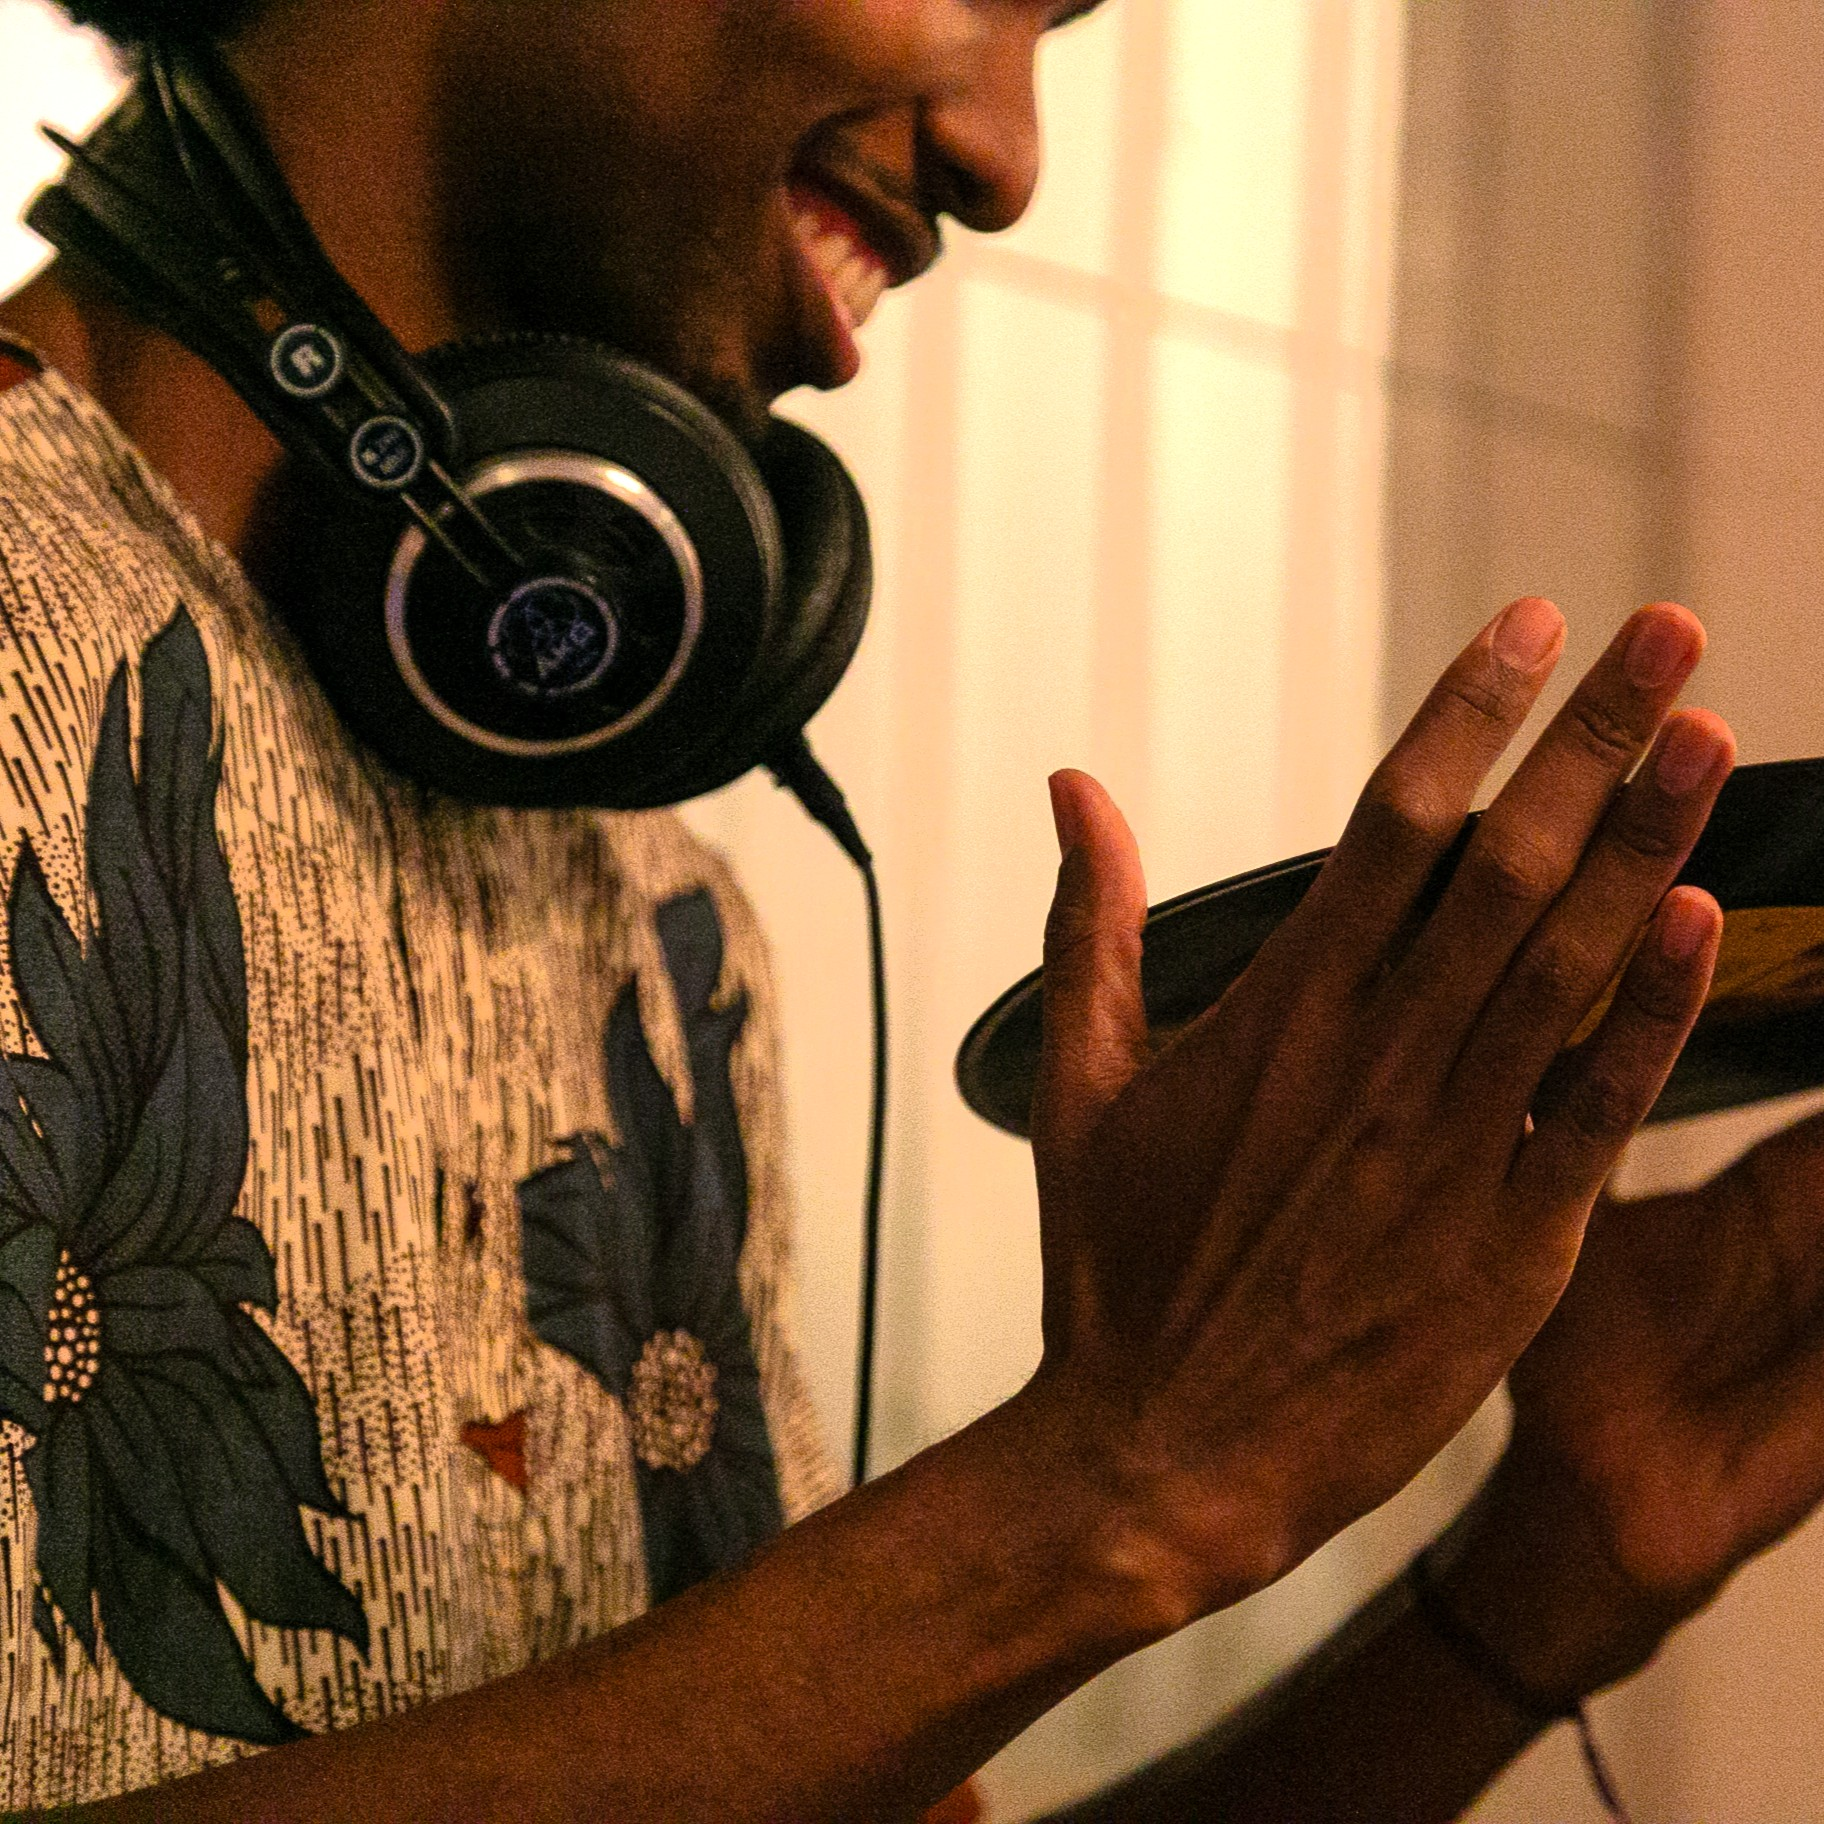
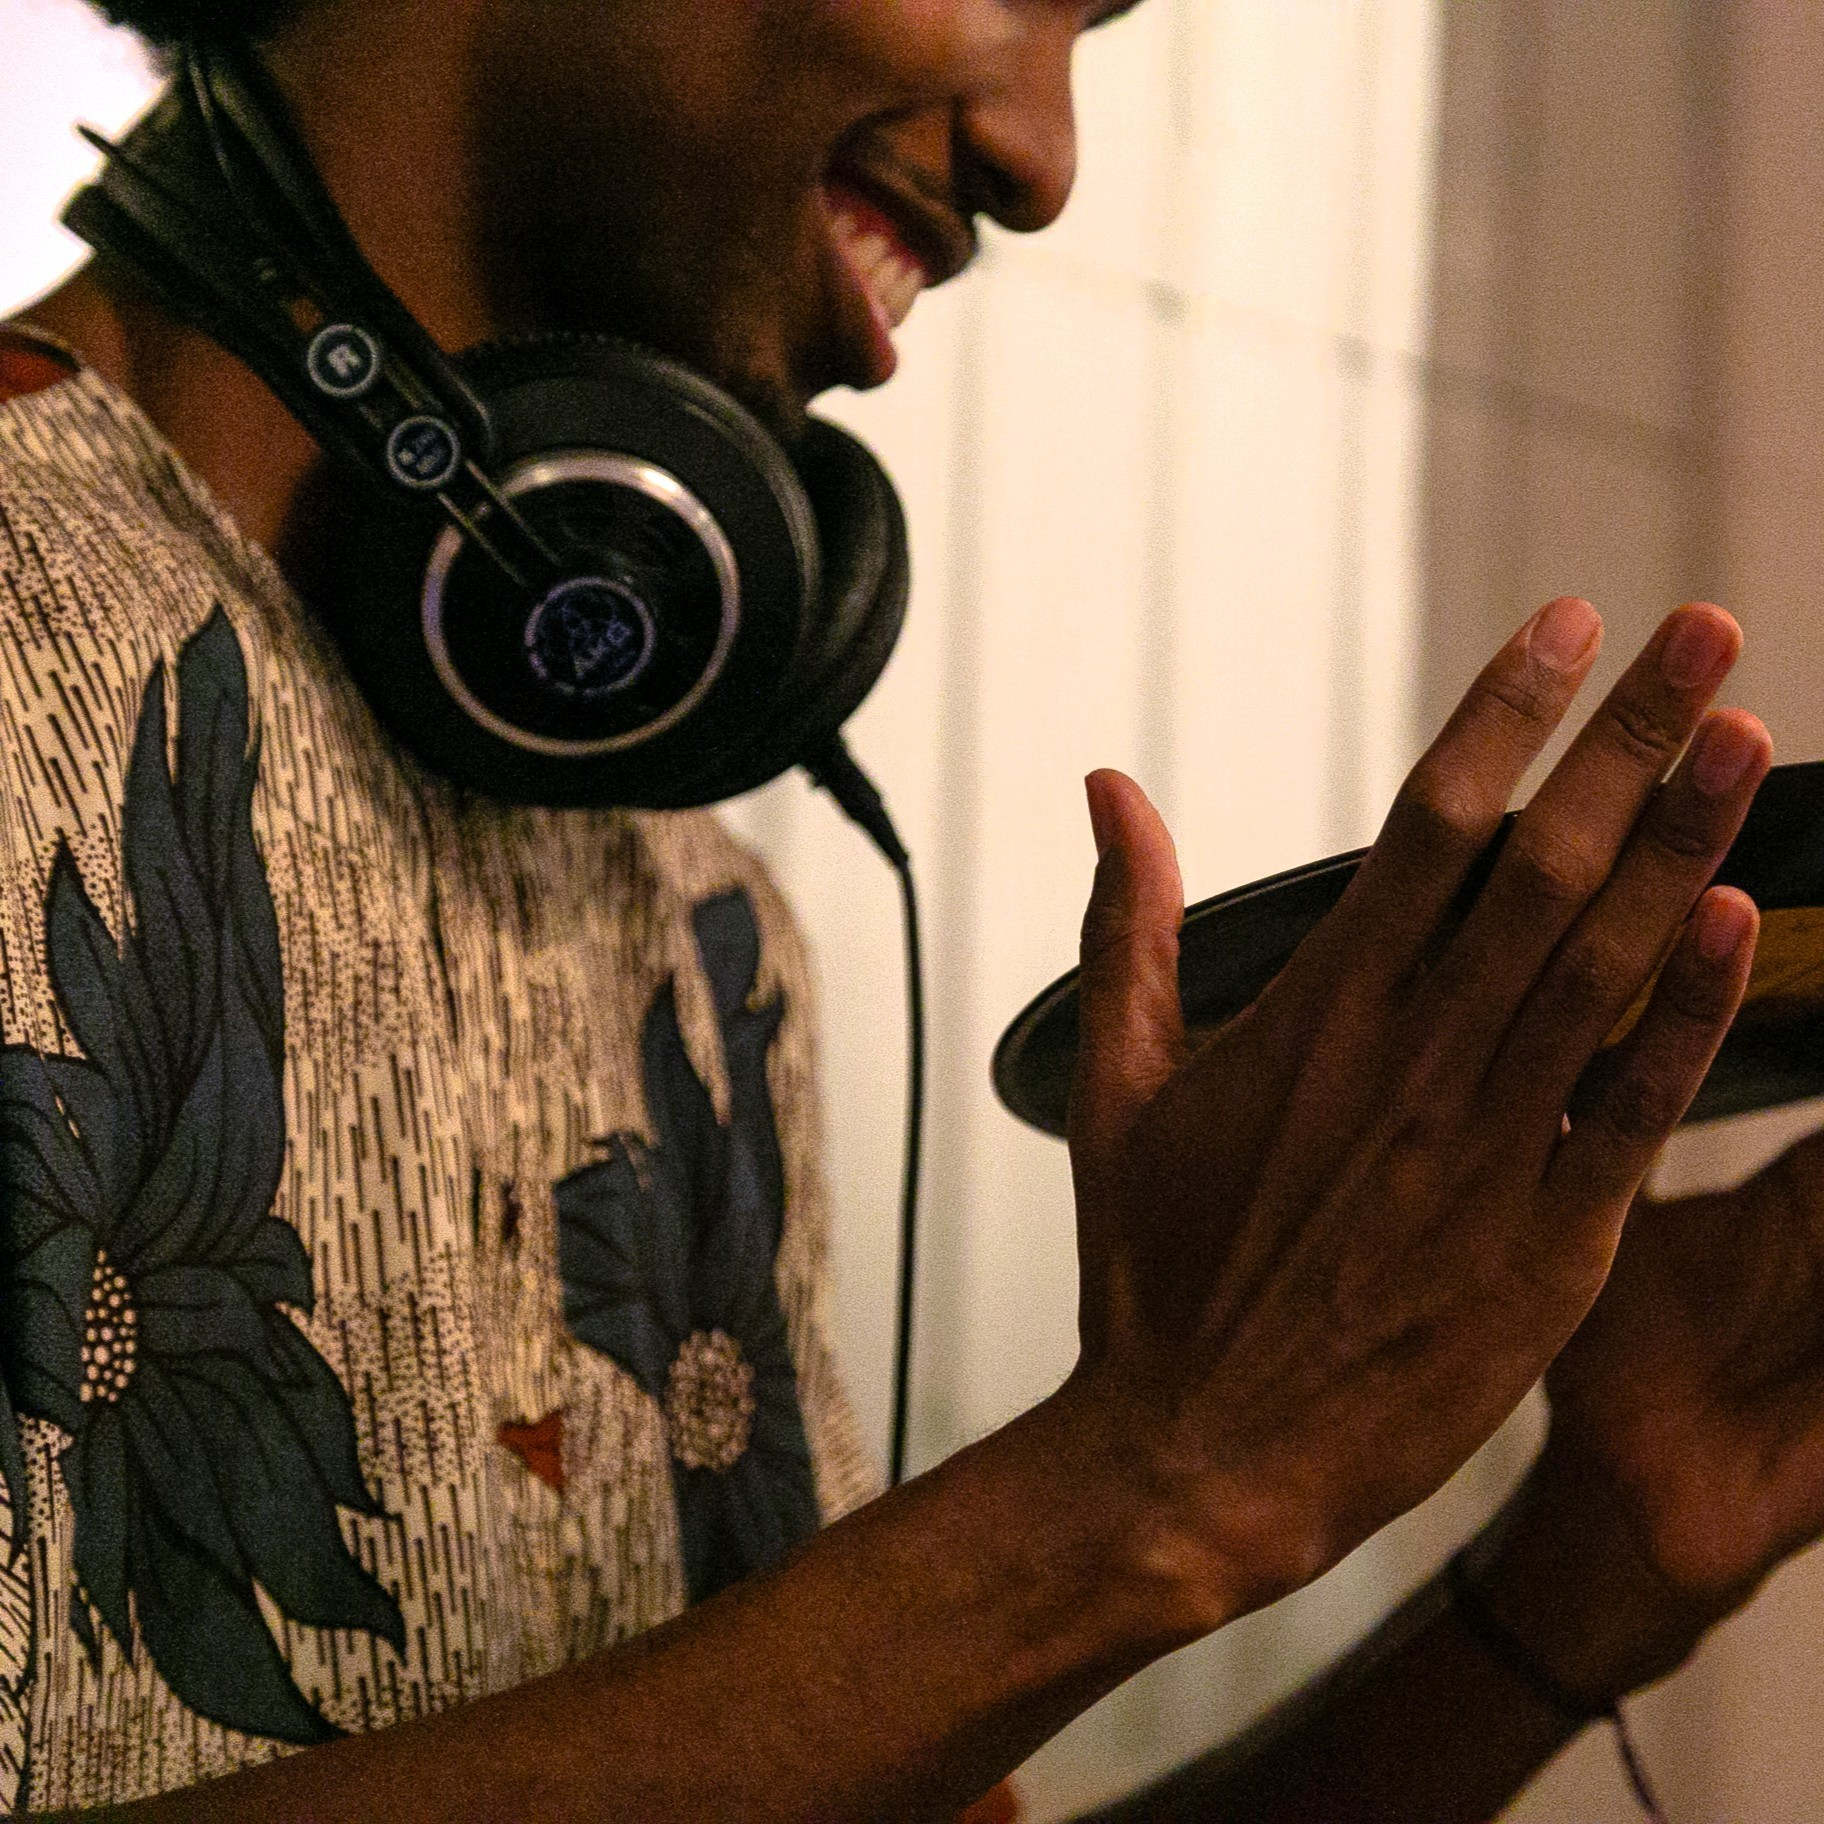
feat: story lightbox no vinil do header + pasta stories/
- Clicar no vinil do header abre lightbox estilo Instagram story
- Progresso automático (5s), navegação por setas e teclado (←/→/Esc)
- Overlay com blur translúcido + botão X para fechar
- Python escaneia pasta stories/ em build time e embute STORY_IMAGES
- CSS/HTML/JS completo; pasta stories/ pronta para receber imagens

diff --git a/dj_library_v2.py b/dj_library_v2.py
@@ -1128,11 +1128,38 @@ h1,h2,h3,.serif{font-family:Georgia,"Times New Roman",serif}
 .logo-link:hover{opacity:.7}
 
 /* VINYL LOGO */
-.logo-vinyl-wrap{position:relative;width:38px;height:38px;flex-shrink:0}
-.logo-vinyl-img{width:38px;height:38px;object-fit:cover;border-radius:50%;display:block}
+.logo-vinyl-wrap{position:relative;width:38px;height:38px;flex-shrink:0;cursor:pointer}
+.logo-vinyl-img{width:38px;height:38px;object-fit:cover;border-radius:50%;display:block;
+  outline:2px solid #CCC;outline-offset:2px;transition:outline-color .18s}
+.logo-vinyl-wrap:hover .logo-vinyl-img{outline-color:#999}
 .logo-vinyl-hole{position:absolute;inset:0;display:flex;align-items:center;justify-content:center;pointer-events:none}
 .logo-vinyl-hole::after{content:'';width:10px;height:10px;border-radius:50%;
   background:#fff;box-shadow:0 0 0 1.5px rgba(0,0,0,.18)}
+
+/* STORY LIGHTBOX */
+.story-overlay{position:fixed;inset:0;background:rgba(0,0,0,.85);
+  backdrop-filter:blur(14px);z-index:9500;
+  display:flex;align-items:center;justify-content:center;
+  opacity:0;pointer-events:none;transition:opacity .25s}
+.story-overlay.open{opacity:1;pointer-events:all}
+.story-box{position:relative;display:flex;align-items:center;gap:1rem}
+.story-close{position:absolute;top:-42px;right:0;background:none;border:none;
+  color:#fff;font-size:1.5rem;cursor:pointer;opacity:.7;transition:opacity .15s;line-height:1}
+.story-close:hover{opacity:1}
+.story-img{max-height:88vh;max-width:78vw;border-radius:12px;
+  object-fit:contain;box-shadow:0 20px 60px rgba(0,0,0,.6);display:block}
+.story-nav-btn{background:rgba(255,255,255,.14);backdrop-filter:blur(4px);
+  border:none;color:#fff;font-size:1.1rem;width:38px;height:38px;border-radius:50%;
+  display:flex;align-items:center;justify-content:center;
+  cursor:pointer;transition:background .15s;flex-shrink:0}
+.story-nav-btn:hover{background:rgba(255,255,255,.28)}
+.story-nav-btn:disabled{opacity:.12;pointer-events:none}
+.story-bars{position:absolute;top:-12px;left:0;right:0;display:flex;gap:3px}
+.story-bar{height:2px;flex:1;background:rgba(255,255,255,.28);border-radius:1px;overflow:hidden}
+.story-bar-fill{height:100%;background:#fff;width:0}
+.story-bar-fill.done{width:100%}
+.story-bar-fill.playing{animation:sbf 5s linear forwards}
+@keyframes sbf{from{width:0}to{width:100%}}
 
 /* FILTER PANEL */
 .filter-toggle-btn{display:inline-flex;align-items:center;gap:.3rem;
@@ -1912,6 +1939,50 @@ function refreshCardDisplayedFields(card,vals){
   if(vals['PA']!==undefined)    card.dataset.pa=vals['PA'];
   if(vals['Recebido?']!==undefined) card.dataset.recebido=vals['Recebido?'];
 }
+
+/* ── STORY LIGHTBOX ── */
+var _storyIdx=0, _storyTmr=null;
+function openStoryLightbox(){
+  if(!window.STORY_IMAGES||!STORY_IMAGES.length)return;
+  _showStory(0);
+}
+function _showStory(idx){
+  clearTimeout(_storyTmr);
+  _storyIdx=Math.max(0,Math.min(idx,STORY_IMAGES.length-1));
+  var overlay=document.getElementById('story-overlay');
+  var img=document.getElementById('story-img');
+  img.src=STORY_IMAGES[_storyIdx];
+  overlay.classList.add('open');
+  // nav buttons
+  var prev=document.getElementById('story-prev-btn');
+  var next=document.getElementById('story-next-btn');
+  if(prev)prev.disabled=(_storyIdx===0);
+  if(next)next.disabled=(_storyIdx===STORY_IMAGES.length-1);
+  // progress bars
+  var barsEl=document.getElementById('story-bars');
+  if(barsEl&&STORY_IMAGES.length>1){
+    barsEl.innerHTML=STORY_IMAGES.map(function(_,i){
+      var cls=i<_storyIdx?'done':i===_storyIdx?'playing':'';
+      return '<div class="story-bar"><div class="story-bar-fill '+cls+'"></div></div>';
+    }).join('');
+    if(_storyIdx<STORY_IMAGES.length-1){
+      _storyTmr=setTimeout(function(){_showStory(_storyIdx+1);},5000);
+    }
+  } else if(barsEl){
+    barsEl.innerHTML='';
+  }
+}
+function _closeStory(){
+  clearTimeout(_storyTmr);
+  document.getElementById('story-overlay').classList.remove('open');
+}
+document.addEventListener('keydown',function(e){
+  var o=document.getElementById('story-overlay');
+  if(!o||!o.classList.contains('open'))return;
+  if(e.key==='Escape')_closeStory();
+  if(e.key==='ArrowRight')_showStory(_storyIdx+1);
+  if(e.key==='ArrowLeft') _showStory(_storyIdx-1);
+});
 """
 
 
@@ -2673,6 +2744,14 @@ def generate_html(df):
         f'{SVG_SPOTIFY} Spotify</a>'
     )
 
+    # ── Stories ───────────────────────────────────────────────────────────────
+    stories_dir = WORK_DIR / "stories"
+    _story_exts = {'.jpg', '.jpeg', '.png', '.webp', '.gif'}
+    story_images = sorted(
+        [f"stories/{f.name}" for f in stories_dir.iterdir() if f.suffix.lower() in _story_exts]
+    ) if stories_dir.exists() else []
+    story_json = json.dumps(story_images)
+
     _og_base = "https://amsa2diop.github.io/colecaovinil"
     _og_desc = f"{n_items} discos &#183; {n_tracks} faixas"
 
@@ -2712,8 +2791,19 @@ def generate_html(df):
   </div>
 </div>
 
+<!-- ═══ STORY LIGHTBOX ═══ -->
+<div class="story-overlay" id="story-overlay" onclick="if(event.target===this)_closeStory()">
+  <div class="story-box">
+    <button class="story-close" onclick="_closeStory()">&#10005;</button>
+    <div id="story-bars" class="story-bars"></div>
+    <button class="story-nav-btn" id="story-prev-btn" onclick="_showStory(_storyIdx-1)">&#9664;</button>
+    <img class="story-img" id="story-img" src="" alt="">
+    <button class="story-nav-btn" id="story-next-btn" onclick="_showStory(_storyIdx+1)">&#9654;</button>
+  </div>
+</div>
+
 <header class="site-header">
-  <div class="logo-vinyl-wrap">
+  <div class="logo-vinyl-wrap" onclick="openStoryLightbox()" title="Ver stories">
     <img class="logo-vinyl-img" src="preview_squared.jpg" alt="Discos do Amsa">
     <div class="logo-vinyl-hole"></div>
   </div>
@@ -2787,6 +2877,7 @@ def generate_html(df):
   </main>
 </div>
 
+<script>var STORY_IMAGES={story_json};</script>
 <script>{JS}</script>
 </body>
 </html>"""